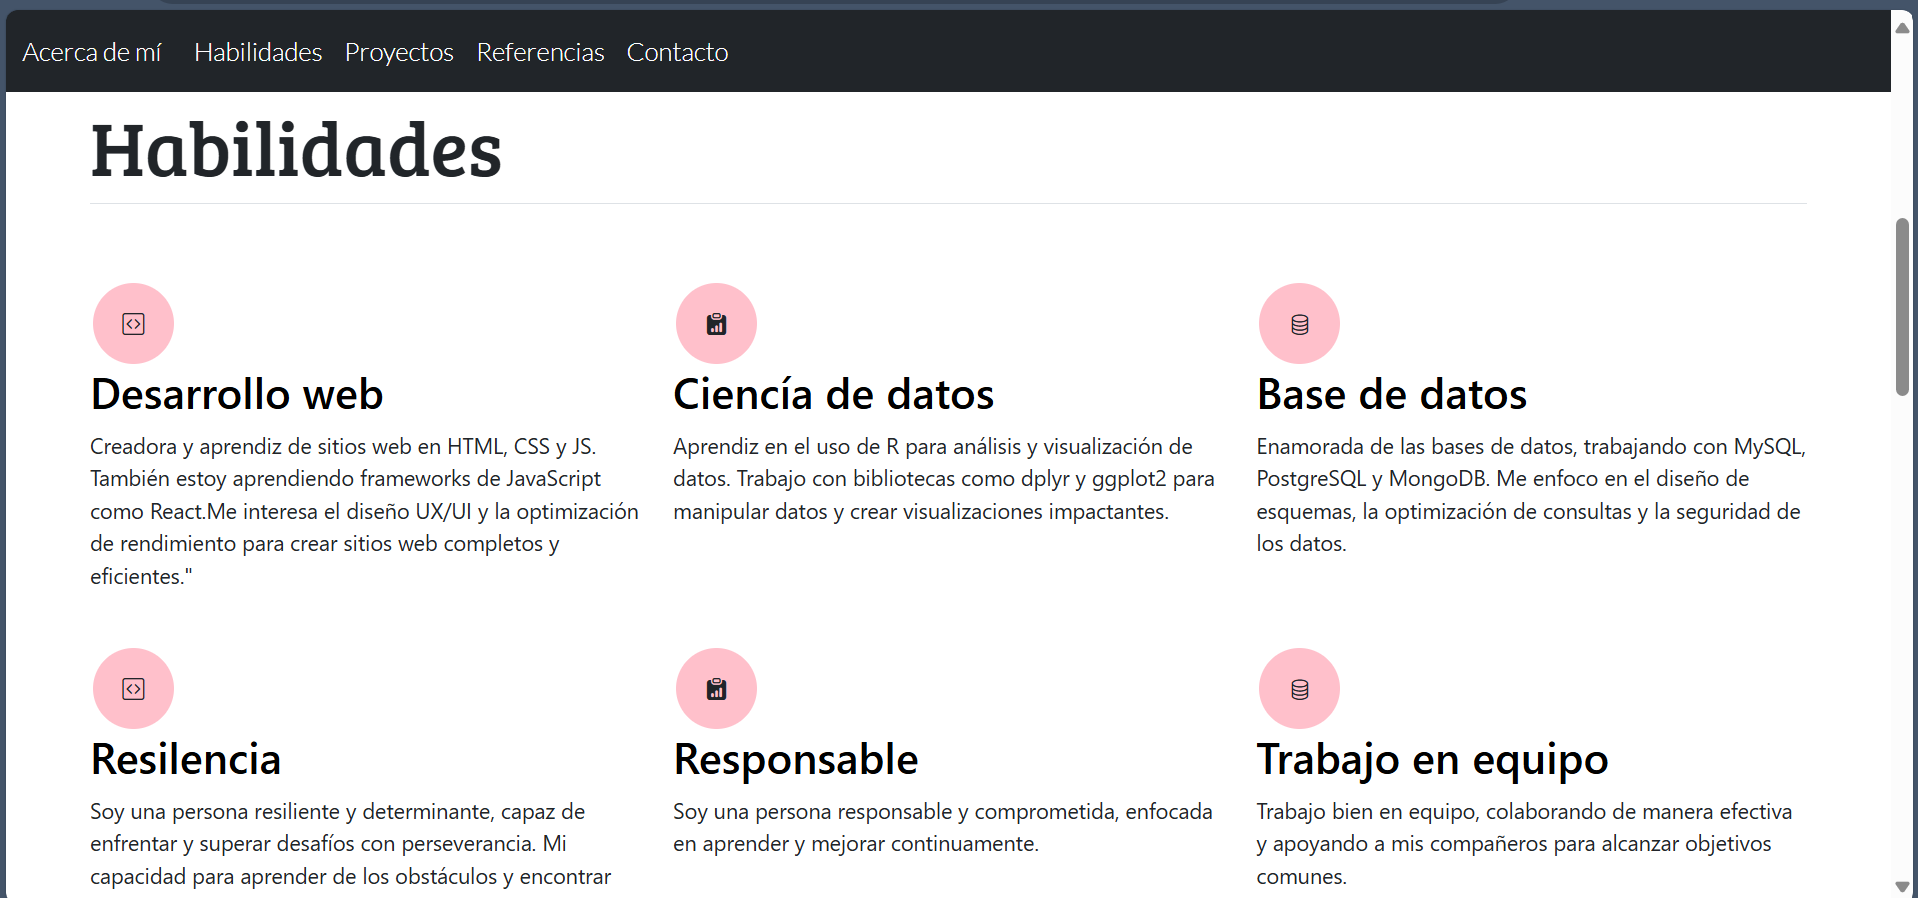
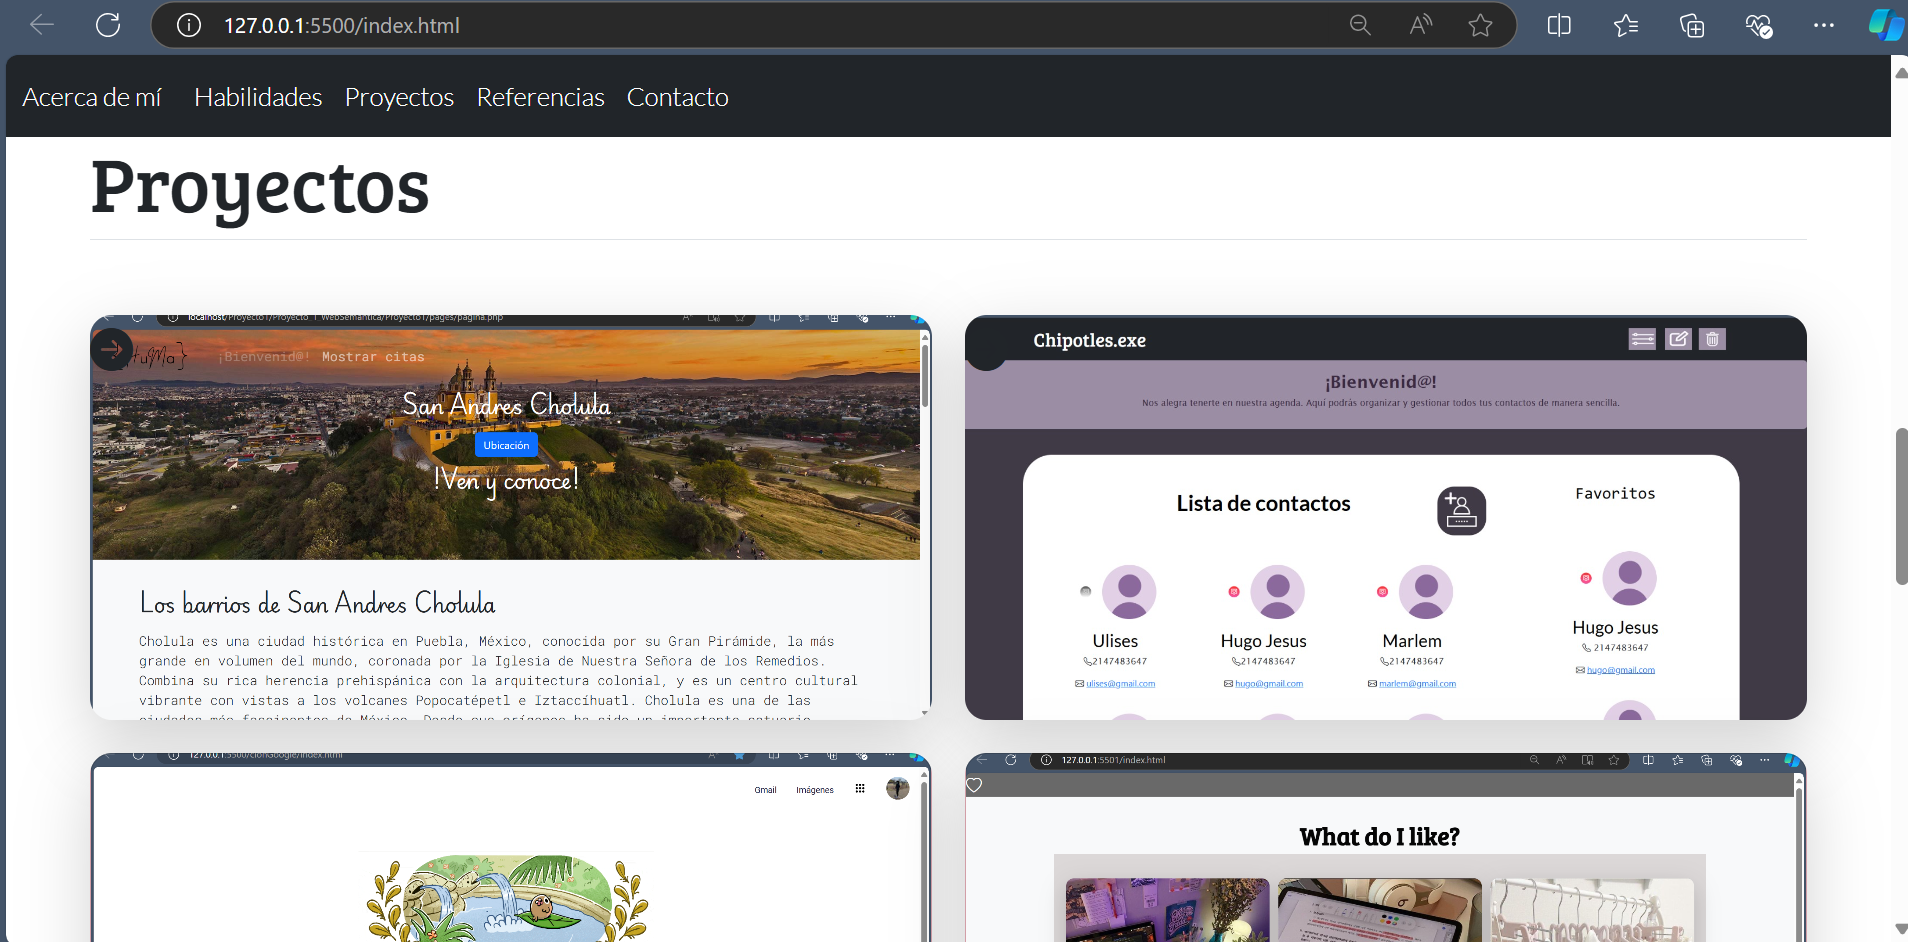
Add files via upload
fix readme

diff --git a/index.html b/index.html
@@ -109,7 +109,7 @@
                     <p>Creadora y aprendiz de sitios web en HTML, CSS y JS. También estoy aprendiendo frameworks de
                         JavaScript como React.Me interesa el diseño UX/UI y la optimización de rendimiento para crear
                         sitios web completos
-                        y eficientes."</p>
+                        y eficientes.</p>
                 </div>
                 <div class="feature col">
                     <div class="feature-icon custom-icon ">
@@ -124,7 +124,7 @@
                         <i class="bi bi-database"></i>
                     </div>
                     <h3 class="fs-2 text-body-emphasis">Base de datos</h3>
-                    <p>Enamorada de las bases de datos, trabajando con MySQL, PostgreSQL y MongoDB. Me enfoco en el
+                    <p>Enamorada de las bases de datos, trabajando con MySQL. Me enfoco en el
                         diseño de esquemas, la optimización de consultas y la seguridad de los datos.</p>
                 </div>
 
@@ -163,18 +163,14 @@
 
             <div class="row row-cols-2 row-cols-lg-2 align-items-stretch g-4 py-5">
                 <div class="col">
-                    <div id="proyecto-1"
-                        class="proyecto card card-cover h-100 overflow-hidden bg-pink rounded-4 shadow-lg" <div
+                    <div  id="proyecto-1"
+                        class="proyecto  card-cover h-100 overflow-hidden bg-pink rounded-4 shadow-lg" <div
                         class="d-flex flex-column h-100 p-5 pb-3 text-shadow-1">
-
-                        <h3 class="pt-5 mt-5 mb-6 display-6 lh-1 text-center bree-serif-regular text-pink">Clon de
-                            google</h3>
-
 
                         <ul class="d-flex list-unstyled mt-auto">
                             <li class="me-auto">
 
-                                <a class="link-dark text-center fs-2" href="https://clon-google-zeta.vercel.app/"
+                                <a class="link-dark text-center fs-2" href="https://github.com/Marleemm/Sistema-de-citas"
                                     target="_blank">
                                     <i class="bi bi-arrow-right-circle-fill"></i>
                                 </a>
@@ -185,15 +181,13 @@
 
                 <div class="col">
                     <div id="proyecto-2"
-                        class="proyecto card card-cover h-100 overflow-hidden bg-pink rounded-4 shadow-lg " <div
-                        class="d-flex flex-column h-100 p-5 pb-3 text-shadow-1">
-                        <h3 class="pt-5 mt-5 mb-6 display-6 lh-1 text-center bree-serif-regular text-pink">App de
-                            realidad aumentada</h3>
-
+                    class="proyecto card-cover h-100 overflow-hidden bg-pink rounded-4 shadow-lg " <div
+                    class="d-flex flex-column h-100 p-5 pb-3 text-shadow-1">
+                        
                         <ul class="d-flex list-unstyled mt-auto">
                             <li class="me-auto">
-                                <a class="link-dark text-center fs-2" href="" target="_blank"><i
-                                        class="bi bi-arrow-right-circle-fill"></i></a>
+                                <a class="link-dark fs-2" href="https://github.com/Marleemm/AgendaWeb" target="_blank">
+                                    <i class="bi bi-arrow-right-circle-fill"></i></a>
                             </li>
                         </ul>
                     </div>
@@ -203,17 +197,48 @@
                     <div id="proyecto-3"
                         class="proyecto card card-cover h-100 overflow-hidden bg-pink rounded-4 shadow-lg " <div
                         class="d-flex flex-column h-100 p-5 pb-3 text-shadow-1">
-                        <h3 class="pt-5 mt-5 mb-6 display-6 lh-1 text-center bree-serif-regular text-pink">
-                            Investigaciones a través de blockchain.</h3>
+                        
 
                         <ul class="d-flex list-unstyled mt-auto">
                             <li class="me-auto">
-                                <a class="link-dark  fs-2" href="https://github.com/Marleemm/ETHCincoDeMay0.git"
+                                <a class="link-dark  fs-2" href="https://clon-google-zeta.vercel.app/"
                                     target="_blank"><i class="bi bi-arrow-right-circle-fill"></i></a>
                             </li>
                         </ul>
                     </div>
                 </div>
+
+                
+                <div class="col">
+                    <div id="proyecto-4"
+                        class="proyecto card card-cover h-100 overflow-hidden bg-pink rounded-4 shadow-lg " <div
+                        class="d-flex flex-column h-100 p-5 pb-3 text-shadow-1">
+                        
+
+                        <ul class="d-flex list-unstyled mt-auto">
+                            <li class="me-auto">
+                                <a class="link-dark  fs-2" href="https://primer-pagina-web-two.vercel.app/"
+                                    target="_blank"><i class="bi bi-arrow-right-circle-fill"></i></a>
+                            </li>
+                        </ul>
+                    </div>
+                </div>
+
+                <div class="col">
+                    <div id="proyecto-5"
+                        class="proyecto card card-cover h-100 overflow-hidden bg-pink rounded-4 shadow-lg " <div
+                        class="d-flex flex-column h-100 p-5 pb-3 text-shadow-1">
+                        
+
+                        <ul class="d-flex list-unstyled mt-auto">
+                            <li class="me-auto">
+                                <a class="link-dark  fs-2" href=""
+                                    target="_blank"><i class="bi bi-arrow-right-circle-fill"></i></a>
+                            </li>
+                        </ul>
+                    </div>
+                </div>
+                
 
             </div>
 
@@ -315,8 +340,8 @@
             <ul class="nav justify-content-center border-bottom pb-3 mb-3">
                 <li class="nav-item">
                     <a href="https://x.com/MarlemmMC" target="_blank" class="nav-link px-2 text-body-secondary">
-                        <i class="bi bi-twitter-x fs-2"></i>
-                        <!-- fs para tamaños -->
+                       
+                        <!-- fs para tamaños --> <i class="bi bi-twitter-x fs-2"></i>
                     </a>
                 </li>
 

diff --git a/style.css b/style.css
@@ -19,14 +19,51 @@ body{
     background-size: contain;
 }
 #proyecto-1 {
-    background-image: url('imagenes/proyecto1.png');
+    background-image: url('imagenes/p2.png');
+    background-size: cover; /* Ajusta la imagen para cubrir todo el contenedor */
+    background-position: center; /* Centra la imagen en el contenedor */
+    background-repeat: no-repeat; /* Evita que la imagen se repita */
+    height: 100%; 
+    min-height: 300px; 
 }
+
 #proyecto-2 {
-    background-image: url('imagenes/proyecto2.png');
+    background-image: url('imagenes/p1.jpeg');
+    background-size: cover; /* Ajusta la imagen para cubrir todo el contenedor */
+    background-position: center; /* Centra la imagen en el contenedor */
+    background-repeat: no-repeat; /* Evita que la imagen se repita */
+    height: 100%; 
+    min-height: 300px; 
 }
 
 #proyecto-3 {
-    background-image: url('imagenes/proyecto3.png');
+    background-image: url('imagenes/proyecto1.png');
+    background-size: cover; /* Ajusta la imagen para cubrir todo el contenedor */
+    background-position: center; /* Centra la imagen en el contenedor */
+    background-repeat: no-repeat; /* Evita que la imagen se repita */
+    height: 100%; 
+    min-height: 300px; 
+    
+}
+
+#proyecto-4 {
+    background-image: url('imagenes/p4.png');
+    background-size: cover; /* Ajusta la imagen para cubrir todo el contenedor */
+    background-position: center; /* Centra la imagen en el contenedor */
+    background-repeat: no-repeat; /* Evita que la imagen se repita */
+    height: 100%; 
+    min-height: 300px; 
+    
+}
+
+
+#proyecto-5{
+    background-image: url('imagenes/proyecto2.png');
+    background-size: 50%; /* Ajusta la imagen para cubrir todo el contenedor */
+    background-position: center; /* Centra la imagen en el contenedor */
+    background-repeat: no-repeat; /* Evita que la imagen se repita */
+    height: 50%; 
+    min-height: 300px; 
     
 }
 

diff --git a/README.md b/README.md
@@ -9,11 +9,11 @@ La página es responsiva (adaptable a diferentes tamaños de pantalla) e incluye
 [Proyecto Desplegado (https://portafolio-umber-alpha.vercel.app/)](https://portafolio-umber-alpha.vercel.app/)
 
 ## Secciones de mi sitio
-![Presentación](Readme/1.png)
-![Habilidades](Readme/2.png)
-![Proyectos](Readme/3.png)
-![Referencias](Readme/4.png)
-![Contacto](Readme/5.png)
+![Presentación](readme/1.png)
+![Habilidades](readme/2.png)
+![Proyectos](readme/3.png)
+![Referencias](readme/4.png)
+![Contacto](readme/5.png)
 
 ## Tecnologías
 * HTML
